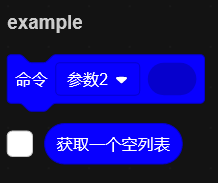
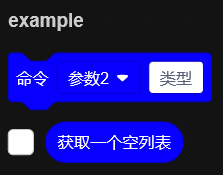
fixed argument regex bug

diff --git a/src/plugin.ts b/src/plugin.ts
@@ -17,13 +17,13 @@ export default class Extension {
                 for (const name in block.menu) this.menus[name] = { items: block.menu[name] };
             }
 
-            const res: RegExpExecArray | null = /\[\S*:\S*]/i.exec(block.text);
+            const res: RegExpMatchArray | null = block.text.match(/\[\S*:\S*]/ig);
             const args: Record<string, Record<string, any>> = {};
             res?.map((arg: string): void => {
                 const [ variable, type ]: string[] = arg.slice(1, -1).split(":");
                 block.text = block.text.replace(arg, `[${variable}]`);
                 args[variable] = cleanObject({  // @ts-ignore
-                    type: Scratch.ArgumentType[type.toLowerCase()],
+                    type: Scratch.ArgumentType[type.toUpperCase()],
                     defaultValue: block.default ? block.default[variable] : undefined,
                     menu: ( block.menu && block.menu[variable] ) ? variable : undefined,
                 });

diff --git a/README.md b/README.md
@@ -16,7 +16,7 @@ turbowarp-ts-plugin是一个高效开发部署turbowarp扩展的插件, 提供:
 - 🎉 **Typescript 支持**
 
 ## 开发
-1. 初始化安装依赖 (**yarn**, **pnpm**同理)
+1. 初始化安装依赖 (**yarn** **pnpm**同理, 推荐**pnpm**)
     ```commandline
     npm install
     ```
